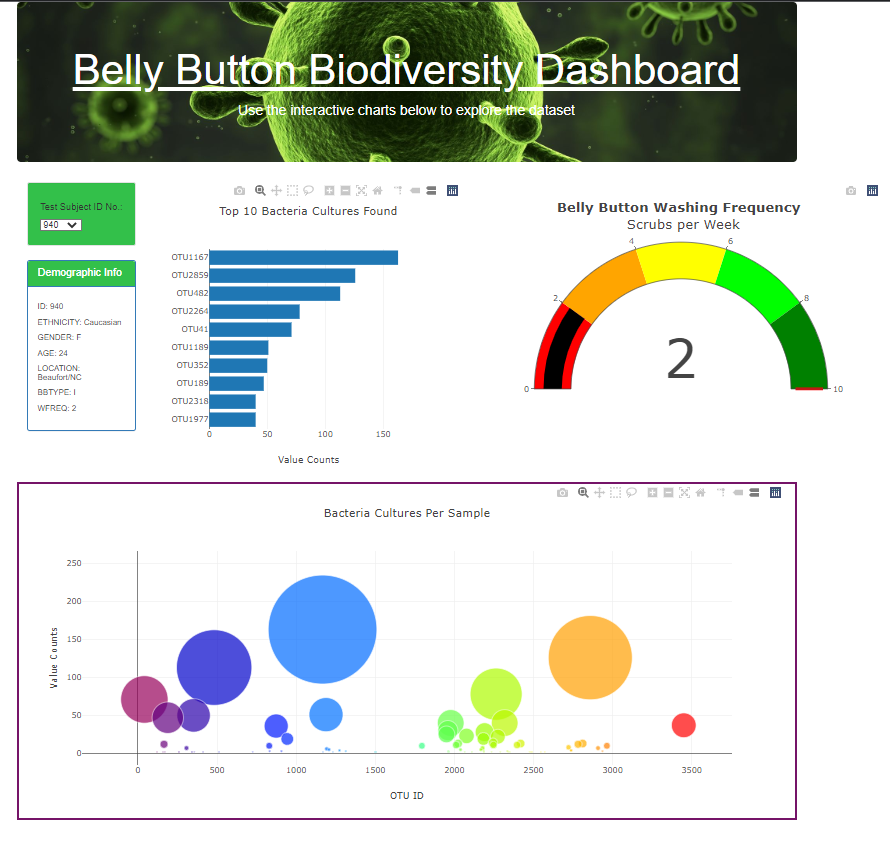
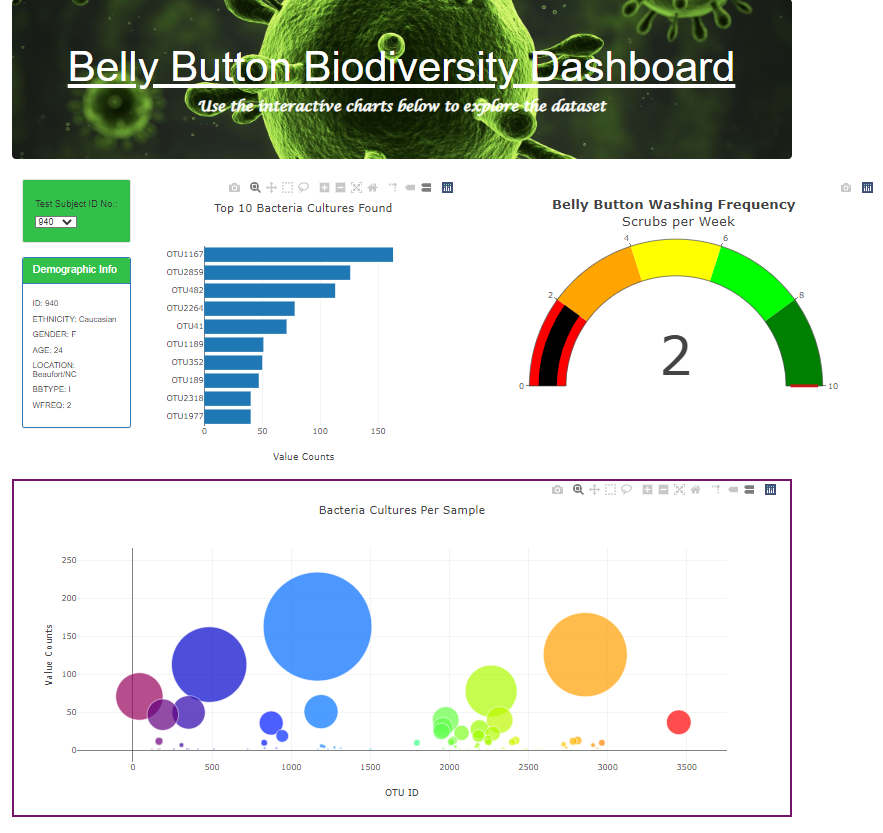
webpage style changes

diff --git a/index.html b/index.html
@@ -15,7 +15,9 @@
     <div class="row">
       <div class="col-md-12 jumbotron text-center" style="background-image: url('https://images2.minutemediacdn.com/image/upload/c_crop,h_1125,w_2000,x_0,y_14/v1554925276/shape/mentalfloss/545151-istock-831089812.jpg?itok=77mlHOcc'); background-size: cover; background-position: center; color:white">
         <h1><u>Belly Button Biodiversity Dashboard</u></h1>
-        <p>Use the interactive charts below to explore the dataset</p>
+        <font face="Lucida Calligraphy">  
+        <p><b>Use the interactive charts below to explore the dataset</b></p>
+        </font>
       </div>
     </div>
     <div class="row">
@@ -37,6 +39,7 @@
       </div>
       <div class="col-md-5">
         <div id="gauge"></div>
+      
       </div>
     </div>
     <div class="row" style="border:3px solid #751468;">
